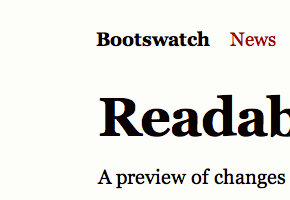
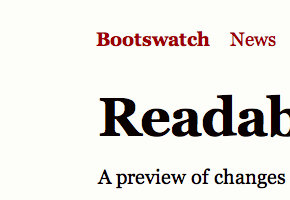
readable: brand linkcolor

Changed region(s): [[0.3414, 0.15, 0.7448, 0.24]]

diff --git a/readable/bootstrap.min.css b/readable/bootstrap.min.css
@@ -639,7 +639,7 @@ input,textarea,select{color:#090000;}
 small{font-size:13px;}
 body{background-color:#fdfdfa;padding-top:20px !important;}
 .navbar{margin-left:16px;}.navbar .navbar-inner{-webkit-box-shadow:none;-moz-box-shadow:none;box-shadow:none;}
-.navbar .brand{color:#090000;font-size:19px;font-weight:bold;line-height:1em;padding:10px 10px 11px;}.navbar .brand:hover{color:#c50001;}
+.navbar .brand{color:#9c0001;font-size:19px;font-weight:bold;line-height:1em;padding:10px 10px 11px;}.navbar .brand:hover{color:#c50001;}
 .navbar .nav>li>a{text-shadow:none;padding:10px;}
 .navbar .nav>li.active>a,.navbar .nav>li:active>a,.navbar .dropdown.open .dropdown-toggle{color:#9c0001;}
 .navbar .search-query{border:1px solid #D4D4D4;-webkit-border-radius:0;-moz-border-radius:0;border-radius:0;color:#090000;background-color:#ffffff;}

diff --git a/readable/bootswatch.less b/readable/bootswatch.less
@@ -46,7 +46,6 @@ small {
 	font-size: 13px;
 }
 
-
 // SCAFFOLDING
 // -----------------------------------------------------
 
@@ -68,7 +67,7 @@ body {
 	}
 
 	.brand {
-		color: @textColor;
+		color: @linkColor;
 		font-size: @baseFontSize;
 		font-weight: bold;
 		line-height: 1em;

diff --git a/readable/bootstrap.css b/readable/bootstrap.css
@@ -3545,7 +3545,7 @@ body {
   box-shadow: none;
 }
 .navbar .brand {
-  color: #090000;
+  color: #9c0001;
   font-size: 19px;
   font-weight: bold;
   line-height: 1em;
